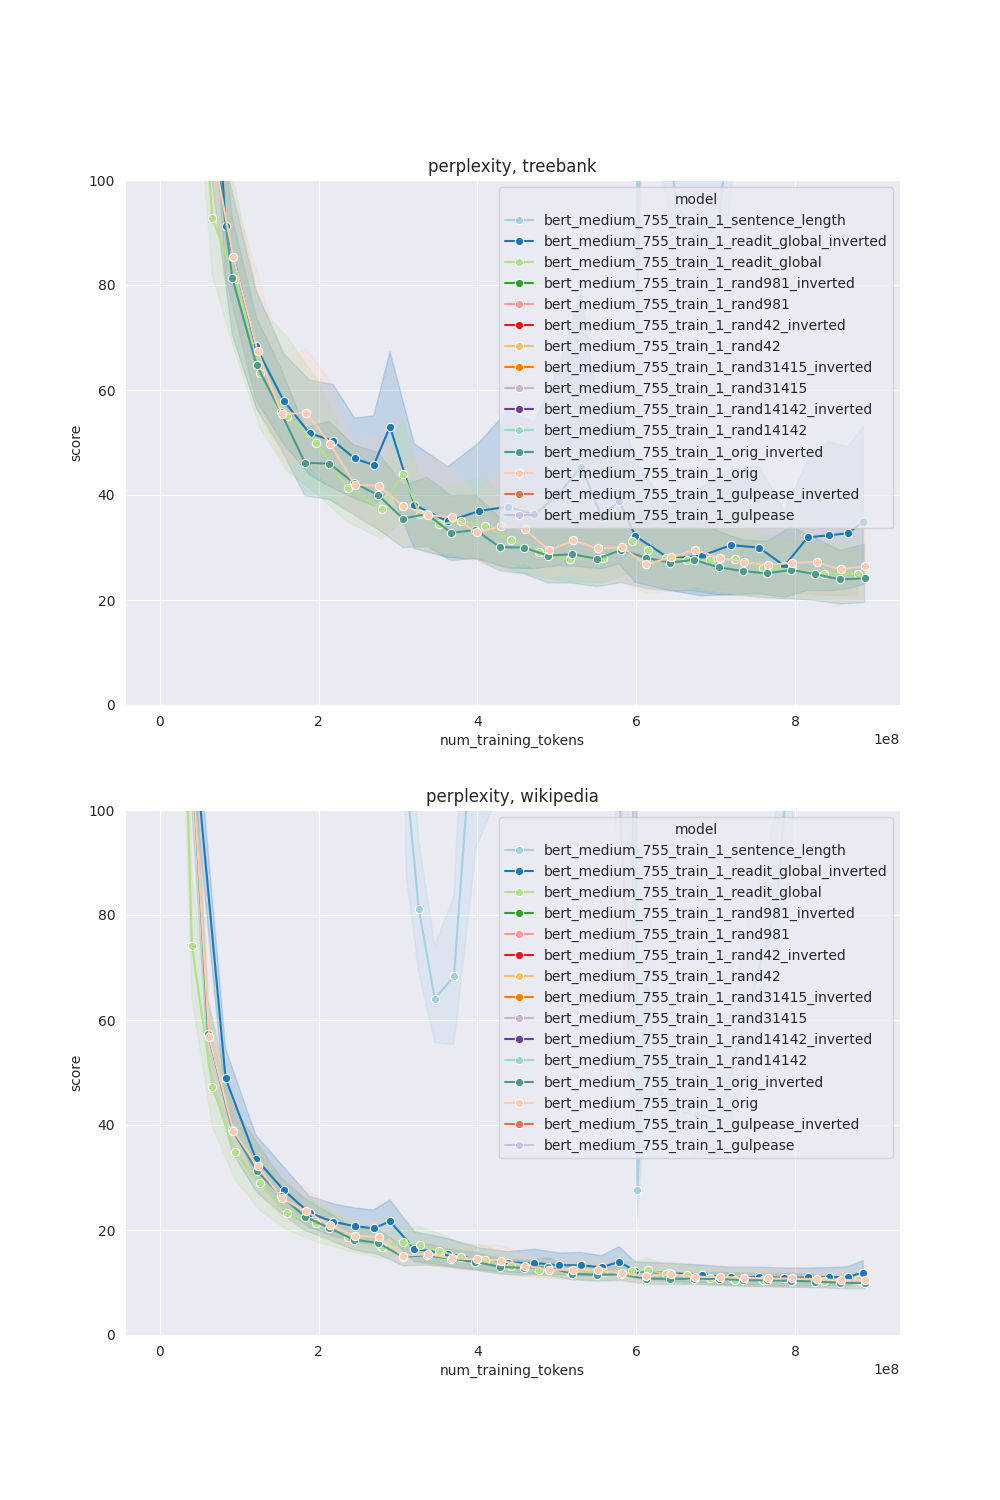
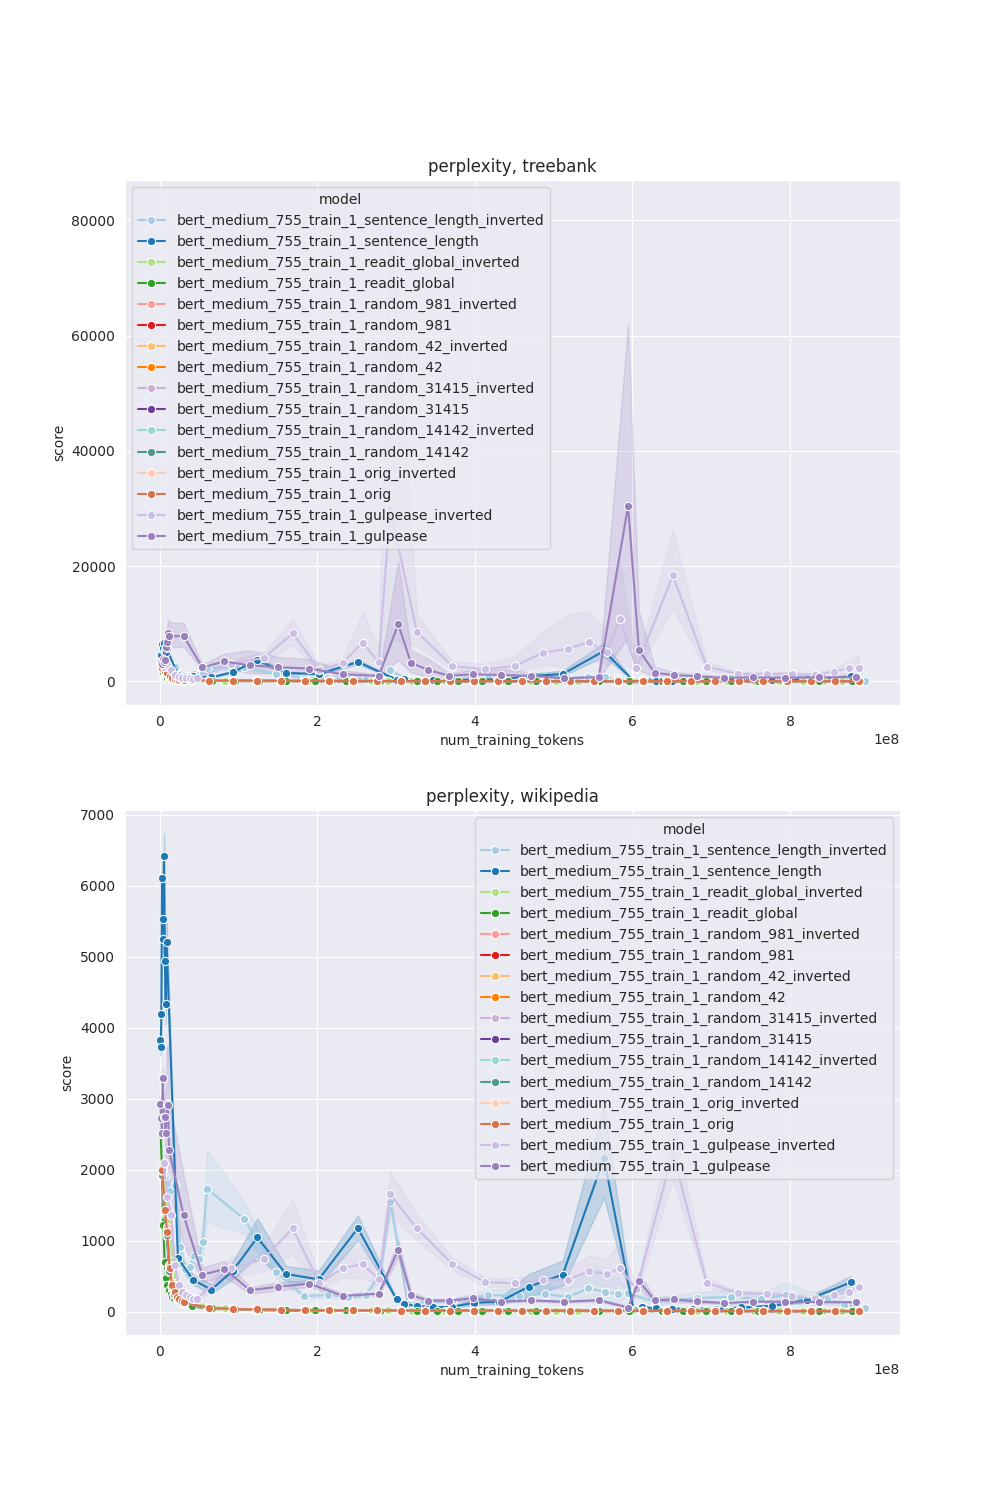
fixed script for perplexity eval and loaded results

diff --git a/scripts/eval/perplexity_eval.py b/scripts/eval/perplexity_eval.py
@@ -3,6 +3,7 @@ import matplotlib.pyplot as plt
 import seaborn as sns
 import pandas as pd
 import argparse
+import json
 import os
 
 sns.set_style("darkgrid")
@@ -31,7 +32,7 @@ def normalize_model_name(model_name, model_seed, average_random):
             model_name = 'random'
     return model_name
 
-def load_perplexity_df(src_dir, model_seed, average_random=False):
+def load_perplexity_df(src_dir, model_seed):
     res_dict = {'model': [], 'checkpoint':[], 'metric': [], 'score':[], 'dataset':[]}
     for dataset in ['wikipedia', 'treebank']:
         dataset_dir = os.path.join(src_dir, dataset)
@@ -39,7 +40,6 @@ def load_perplexity_df(src_dir, model_seed, average_random=False):
             if (model_seed and f'{model_seed}_train' not in model_name):
                 continue
             model_dir = os.path.join(dataset_dir, model_name)
-            model_name = normalize_model_name(model_name, model_seed, average_random)
             for checkpoint_file_name in os.listdir(model_dir):
                 checkpoint_num = int(checkpoint_file_name.split('-')[-1][:-4])
                 checkpoint_path = os.path.join(model_dir, checkpoint_file_name)
@@ -54,36 +54,88 @@ def load_perplexity_df(src_dir, model_seed, average_random=False):
                         add_to_res_dict(res_dict, model_name, checkpoint_num, 'perplexity', pp, dataset)  
     return pd.DataFrame.from_dict(res_dict)
 
-def plot_results(res_df, output_path, average_random=False, min_checkpoint=None):
+def map_checkpoints_to_tokens(res_df, checkpoint_tokens_map):
+    def map_row(row):
+        curriculum = '_'.join(row['model'].split('_')[5:])
+        if 'rand' in curriculum and not 'random_' in curriculum:
+            curriculum = curriculum.replace('rand', 'random_')
+        if curriculum == '': # for the case with no seed specified
+            curriculum = row['model']
+        checkpoint = str(int(row['checkpoint']))
+        num_tokens = None
+        if curriculum in checkpoint_tokens_map:
+            if checkpoint in checkpoint_tokens_map[curriculum]:
+                num_tokens = checkpoint_tokens_map[curriculum][checkpoint]
+                return num_tokens
+        else:
+            print(curriculum)
+        return None
+    
+    res_df['num_training_tokens'] = res_df.apply(map_row, axis=1)
+    res_df = res_df[res_df['num_training_tokens'].notnull()]
+    return res_df
+
+
+def plot_results(res_df, output_path, model_seed, average_random=False, min_checkpoint=None, checkpoint_tokens_map=None):
     sorted_models = HUE_ORDER if average_random else sorted(list(res_df['model'].unique()), reverse=True)
     palette = get_seaborn_palette(len(sorted_models))
+
+    if checkpoint_tokens_map is not None:
+        res_df = map_checkpoints_to_tokens(res_df, checkpoint_tokens_map)
+
+    res_df['model'] = res_df['model'].apply(lambda x: normalize_model_name(x, model_seed, average_random))
+    x_key = 'num_training_tokens' if checkpoint_tokens_map is not None else 'checkpoint'
+
     for metric in sorted(list(res_df['metric'].unique())):
         metric_df = res_df[res_df['metric'] == metric]
+
+        print(f'Plotting {metric}')
+        print(metric_df['model'].unique())
+
         if min_checkpoint is not None:
             metric_df = metric_df[metric_df['checkpoint'] >= min_checkpoint]
         _, axes = plt.subplots(2, 1, figsize=(10, 15))
         for idx, dataset in enumerate(['treebank', 'wikipedia']):
             dataset_df = metric_df[metric_df['dataset'] == dataset]
-            sns.lineplot(data=dataset_df, x='checkpoint', y='score', hue='model', hue_order=sorted_models, palette=palette, marker='o', legend=True, ax=axes[idx])
+            sns.lineplot(data=dataset_df, x=x_key, y='score', hue='model', hue_order=sorted_models, palette=palette, marker='o', legend=True, ax=axes[idx])
             axes[idx].set_title(f'{metric}, {dataset}')
+            # axes[idx].set_ylim(0, 100)
         plt.savefig(f'{output_path}{metric}.png') 
         plt.show()
 
+def load_checkpoint_tokens_map(src_dir):
+    checkpoint_tokens_map = {}
+    for curriculum_file_name in os.listdir(src_dir):
+        curriculum = curriculum_file_name.split('.')[0]
+        file_path = os.path.join(src_dir, curriculum_file_name)
+        with open(file_path, 'r') as src_file:
+            curriculum_map = json.load(src_file)
+        checkpoint_tokens_map[curriculum] = curriculum_map
+    return checkpoint_tokens_map
 
 def main():
     parser = argparse.ArgumentParser()
     parser.add_argument('-m', '--model_type', choices=['bert', 'gpt'])
     parser.add_argument('-s', '--model_seed')
     parser.add_argument('-a', '--average_random', action='store_true')
+    parser.add_argument('-n', '--num_tokens_map', action='store_true')
     args = parser.parse_args()
+
+    if args.num_tokens_map:
+        num_tokens_dir = 'data/num_training_tokens'
+        checkpoint_tokens_map = load_checkpoint_tokens_map(num_tokens_dir)
+    else:
+        checkpoint_tokens_map = None
 
     src_dir = f'data/perplexity/{args.model_type}'
     if args.model_seed:
         output_path = f'results/{args.model_type}/seed_{args.model_seed}/'
     else:
         output_path = f'results/{args.model_type}/'
-    res_df = load_perplexity_df(src_dir, args.model_seed, average_random=args.average_random)
-    plot_results(res_df, output_path, average_random=args.average_random)
+    if args.num_tokens_map:
+        output_path = 'num_tokens_' + output_path
+    res_df = load_perplexity_df(src_dir, args.model_seed)
+    plot_results(res_df, output_path, model_seed=args.model_seed, average_random=args.average_random, checkpoint_tokens_map=checkpoint_tokens_map)
 
 if __name__ == '__main__':
     main()
